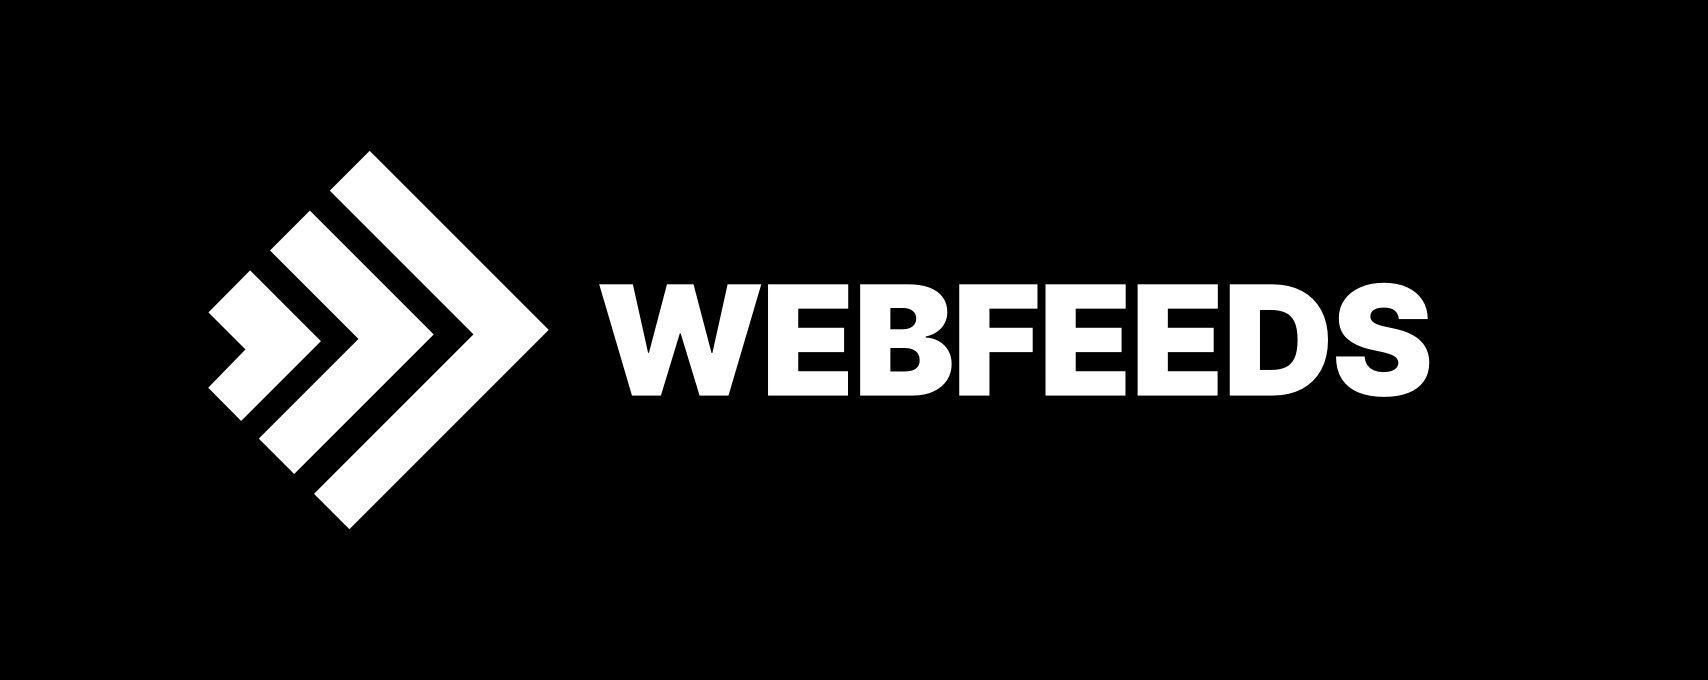
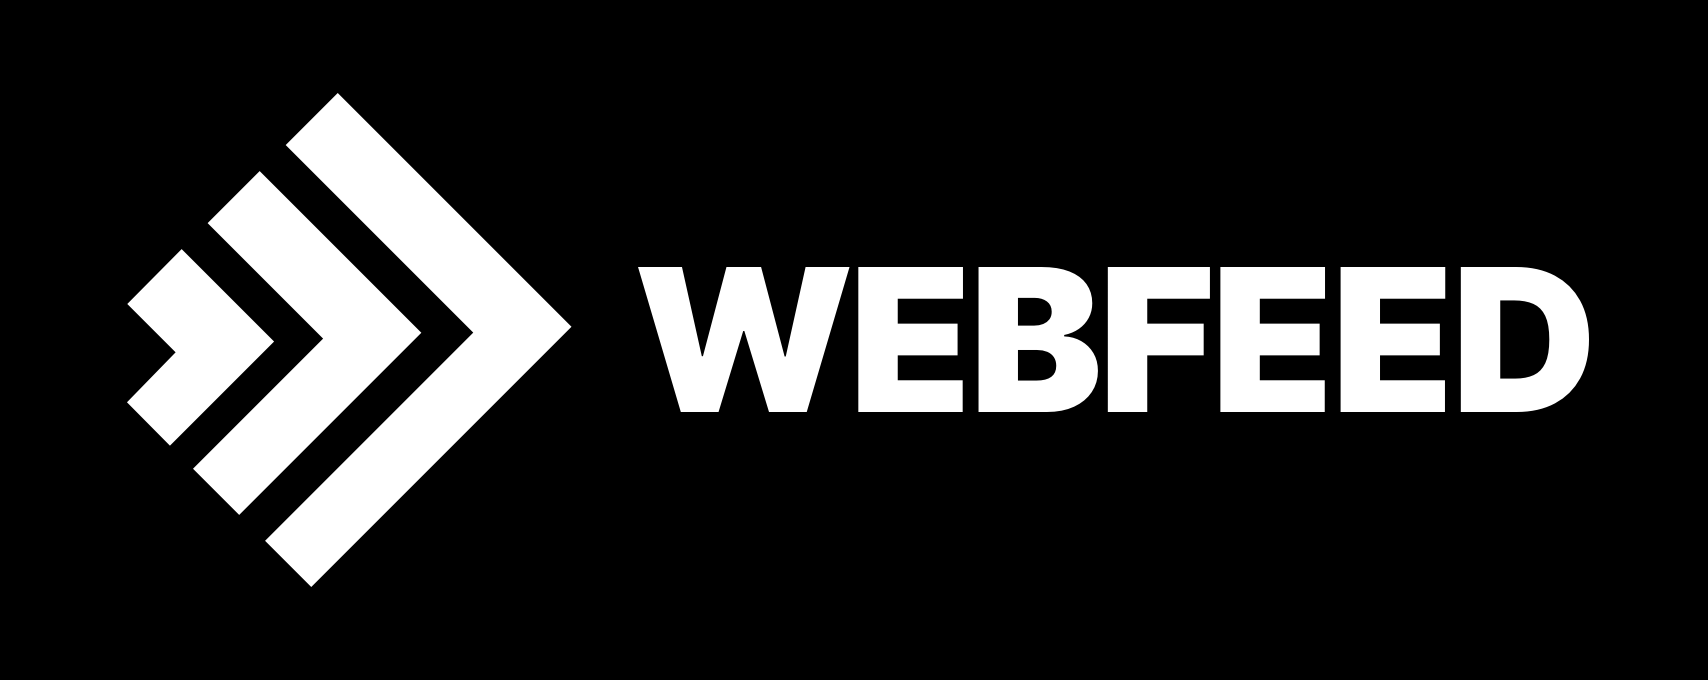
Update readme

Changed region(s): [[0.0621, 0.1235, 0.9309, 0.8647], [0.2482, 0.525, 0.3103, 0.6794]]

diff --git a/readme.md b/readme.md
@@ -2,7 +2,7 @@
 	<img src="readme-poster.png" alt="RawJS Poster Image">
 </p>
 
-# Webfeeds JavaScript Library
+# Webfeed JavaScript Library
 
 Reference implementation library for consuming webfeeds, within the browser.
 Full readme coming soon.
